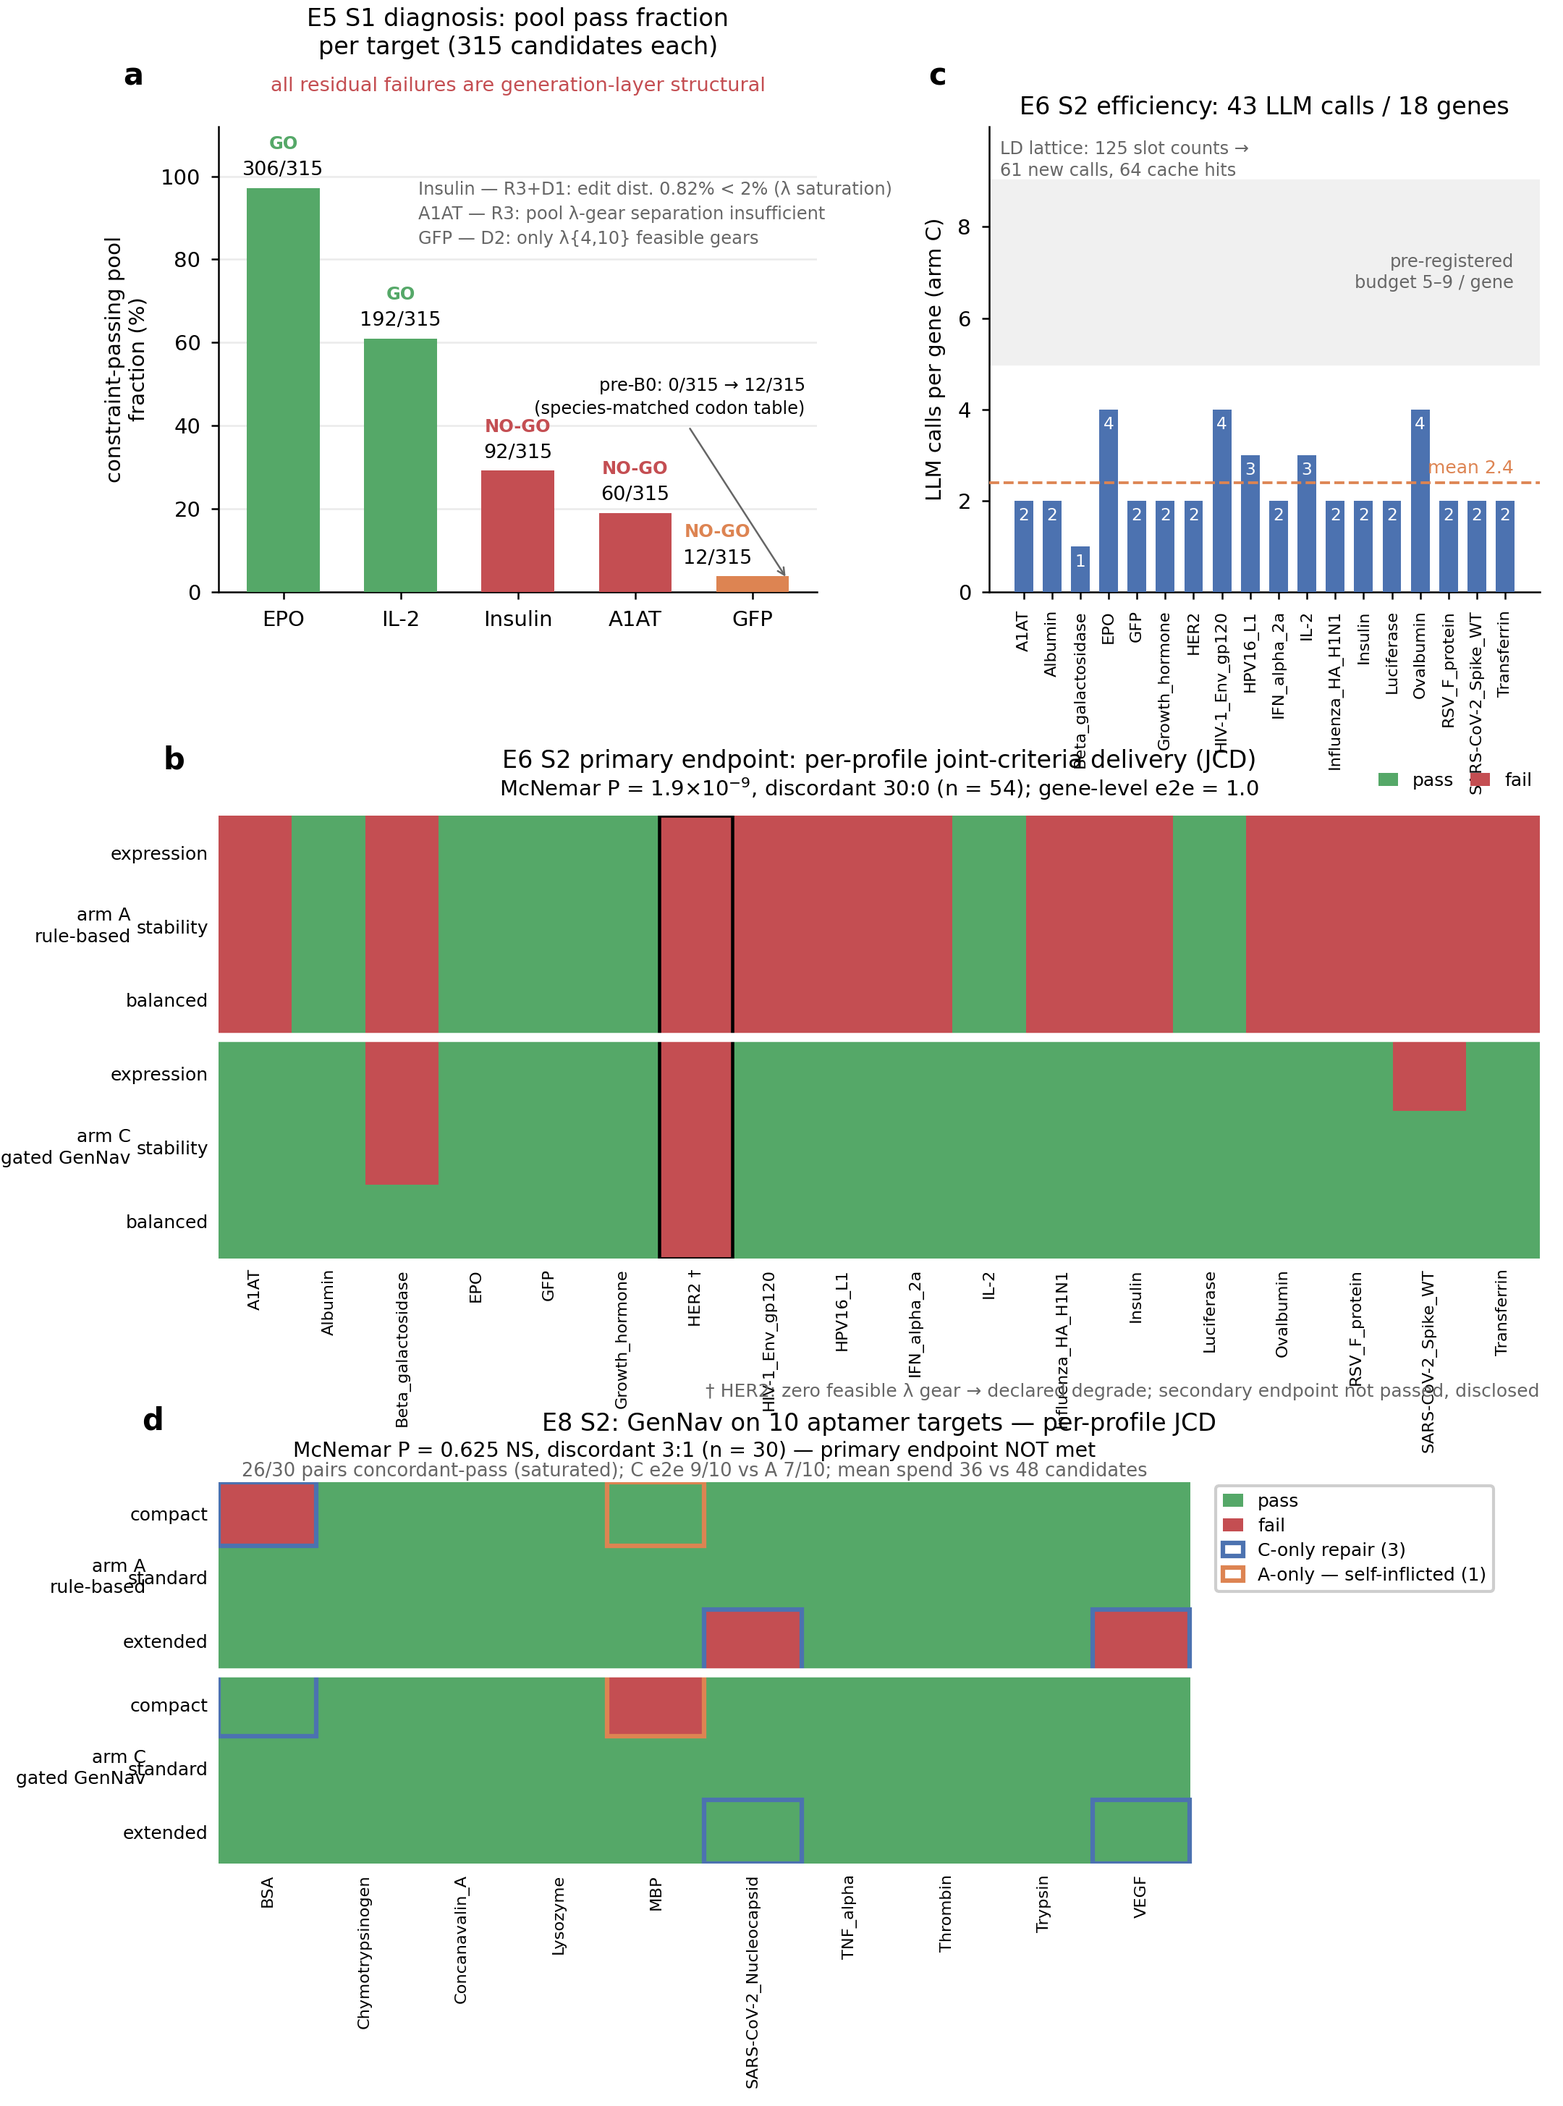
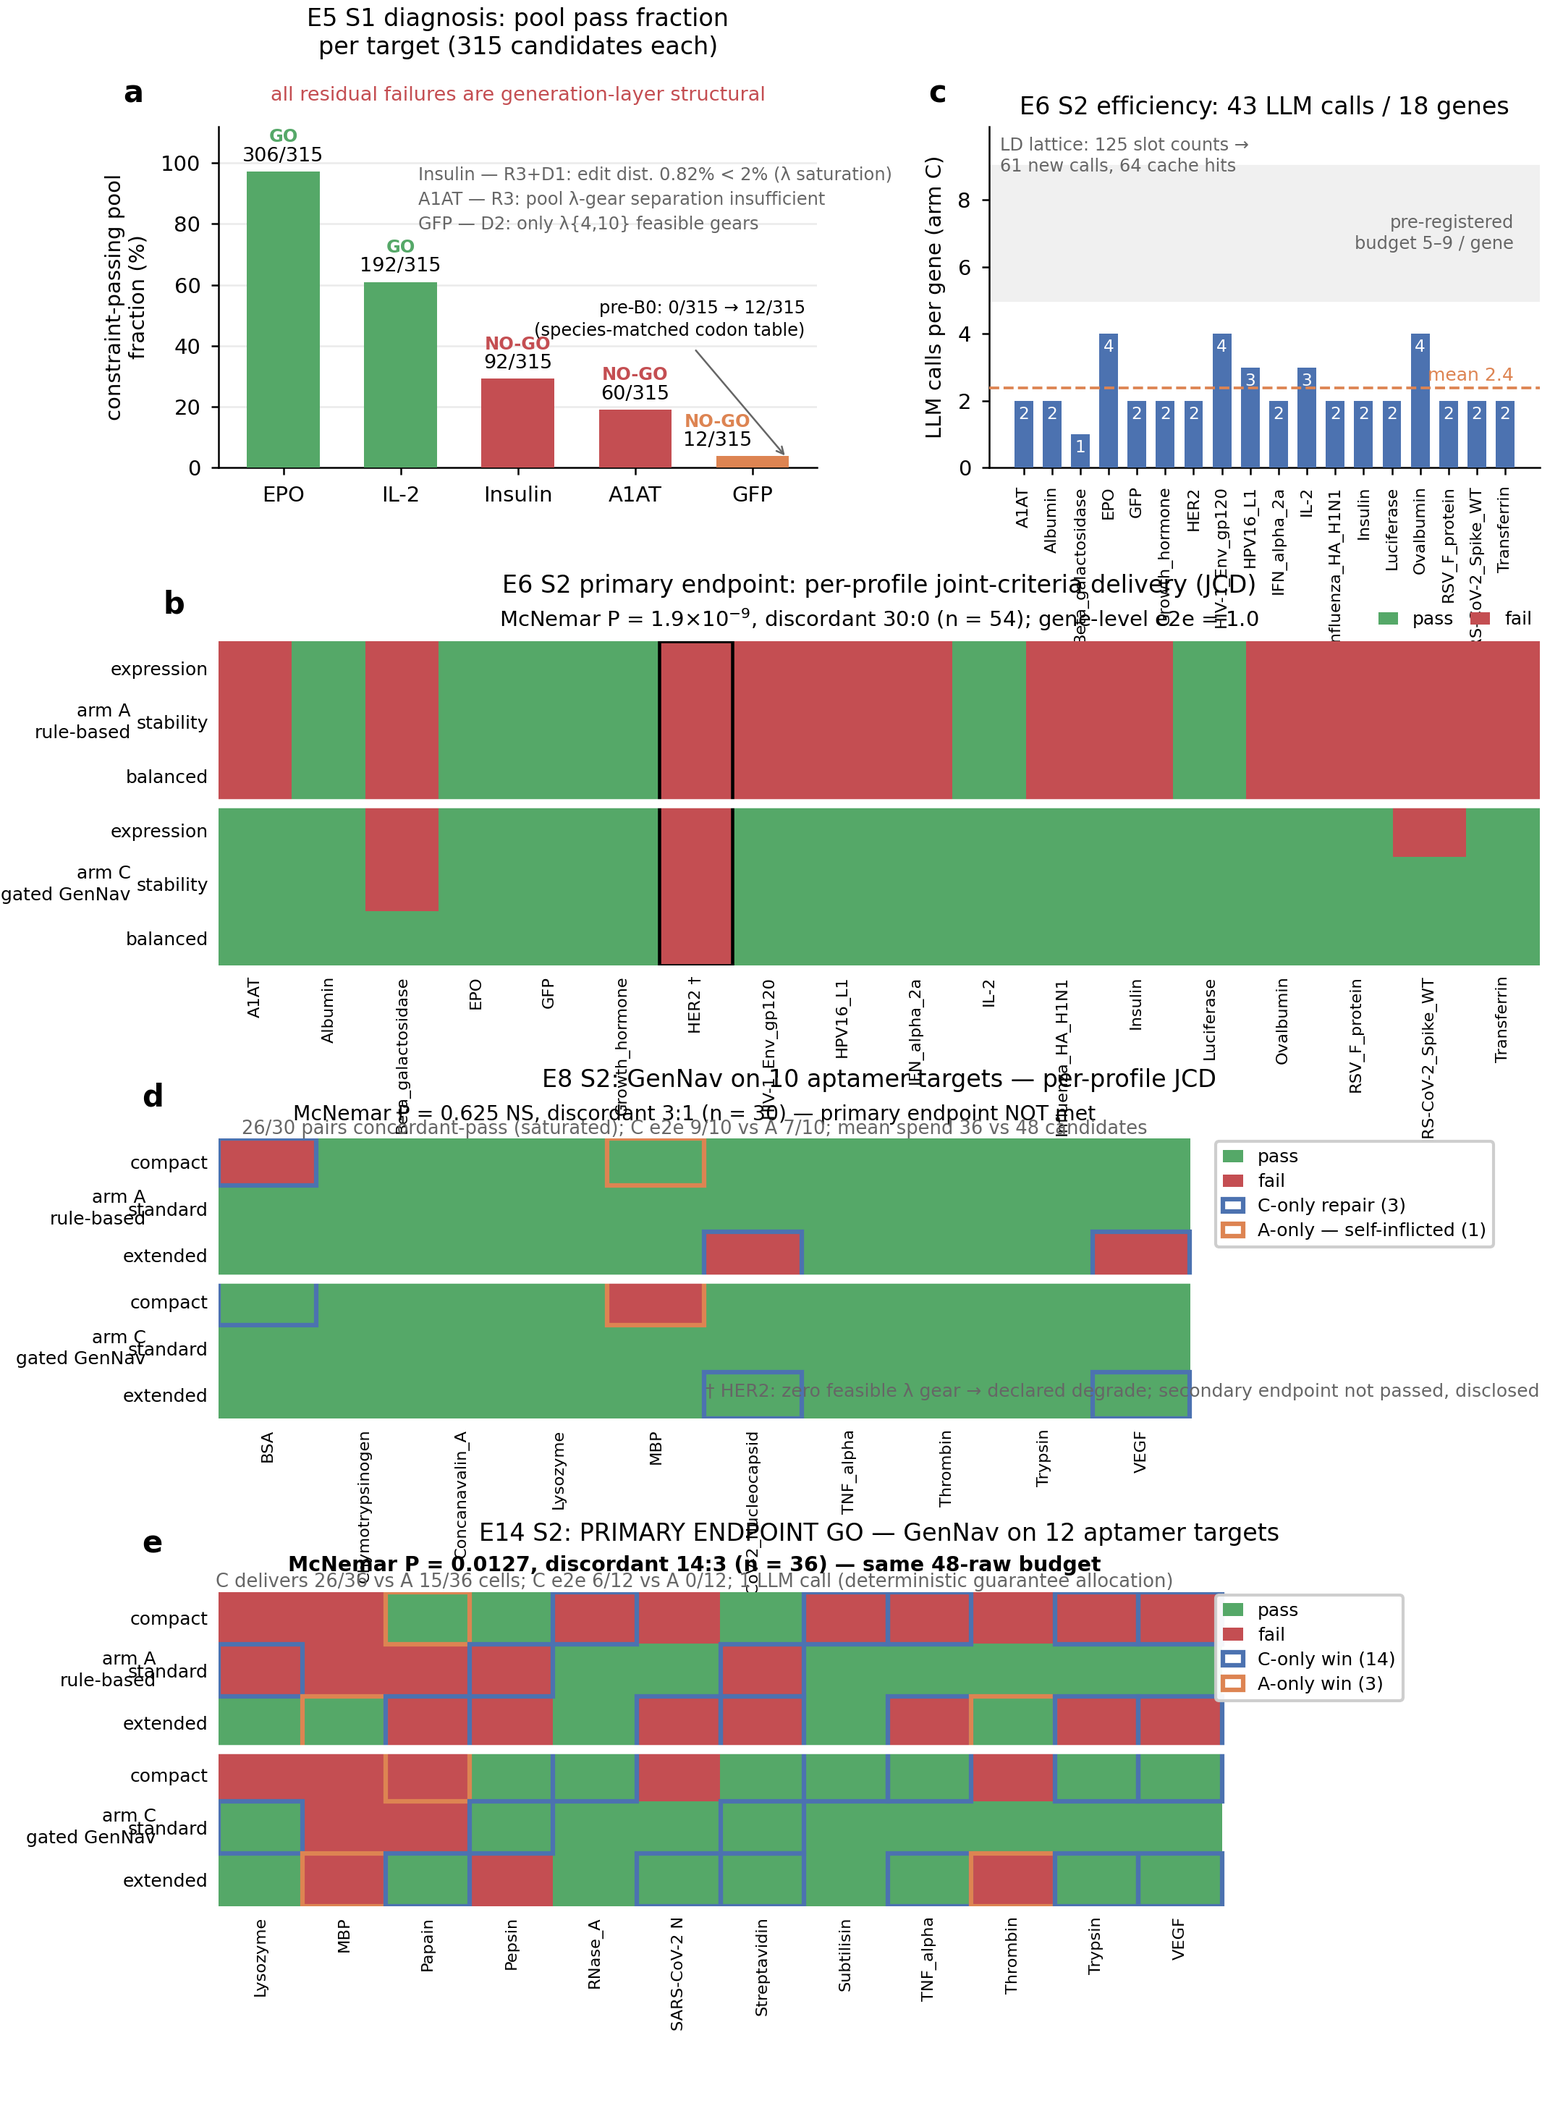
docs(paper): submission engineering — Fig 5e (E14 GO panel), power analysis, supplementary archive
- plot_paper_fig5.py gains panel e (E14 S2 GO: 12-target JCD grid, 14:3
  discordance frames, 26/36 vs 15/36 cells, 1 LLM call; asserted against
  the verdict) and regenerates fig5.png
- SUPPLEMENTARY_GENNAV_APTAMER.md: full E8-E15 pre-registration chain
  with commit hashes, criteria-revision rationale, McNemar power table
  (D=17 → 57% at p=0.75; pooled D=37 → 89%), single-cell sensitivity
  (robust both directions), protocol addenda, reviewer-ready file map
- PAPER_DRAFT data-availability section now cites E12-E15 + supplementary

diff --git a/rna_agent_system/experiments/plots/plot_paper_fig5.py b/rna_agent_system/experiments/plots/plot_paper_fig5.py
@@ -14,6 +14,10 @@ Panels:
      primary endpoint NOT met (26/30 pairs saturate); shown honestly as
      mechanical, budget-matched transfer (C e2e 9/10 vs A 7/10; mean raw spend
      36 vs 48 candidates).
+  e  E14 S2 aptamer PRIMARY ENDPOINT GO: per-profile JCD grid, 12 targets x 3
+     profiles; discordance 14:3 (McNemar P = 0.0127, n = 36) — C delivers
+     26/36 vs A 15/36 cells, C e2e 6/12 vs A 0/12; single LLM call across
+     the run (deterministic guarantee allocation).
 
 Data:
   experiments/results/E5_REPORT_2026-08-09.md   (pool-pass counts, r5 table)
@@ -144,11 +148,45 @@ assert len(e8_discordant) == 8
 n8_concordant_pass = int(np.sum(grid8_a & grid8_c))
 assert n8_concordant_pass == 26
 
+
+# Panel e: E14 S2 aptamer PRIMARY ENDPOINT GO — per-pair JCD from the verdict.
+e14v = json.load(open(RESULTS / "e14_verdict_s2.json"))
+e14_runs = [json.loads(l) for l in open(RESULTS / "e14_runs_s2.jsonl")]
+e14_profiles = ["compact", "standard", "extended"]
+e14_targets = e14v["targets"]
+e14_pairs = {(p["target_id"], p["profile"]): (p["A_jcd"], p["C_jcd"])
+             for p in e14v["pairs"]}
+grid14_a = np.array([[e14_pairs[(t, p)][0] for t in e14_targets]
+                     for p in e14_profiles])
+grid14_c = np.array([[e14_pairs[(t, p)][1] for t in e14_targets]
+                     for p in e14_profiles])
+b14 = int(np.sum((~grid14_a) & grid14_c))
+c14 = int(np.sum(grid14_a & (~grid14_c)))
+mc14 = e14v["primary"]["mcnemar"]
+assert (b14, c14) == (mc14["b"], mc14["c"]) == (14, 3), (b14, c14)
+assert e14v["primary"]["n_pairs"] == 36 and e14v["primary"]["pass"]
+e14_llm = {r.get("target_id"): r.get("llm_calls", 0)
+           for r in e14_runs if r["arm"] == "C"}
+assert sum(e14_llm.values()) == 1, sum(e14_llm.values())
+assert (e14v["primary"]["a_e2e_rate"], e14v["primary"]["c_e2e_rate"]) == (0.0, 0.5)
+e14_discordant = []
+for j, t in enumerate(e14_targets):
+    for i, p in enumerate(e14_profiles):
+        a_ok, c_ok = e14_pairs[(t, p)]
+        if a_ok != c_ok:
+            winner = "C" if c_ok else "A"
+            e14_discordant += [(i, j, winner), (3 + i, j, winner)]
+assert len(e14_discordant) == 2 * (b14 + c14) == 34
+n14_c = int(np.sum(grid14_a & grid14_c)) + b14
+n14_a = int(np.sum(grid14_a & grid14_c)) + c14
+assert (n14_c, n14_a) == (26, 15), (n14_c, n14_a)
+
 # ---------------------------------------------------------------- figure ----
 fig = plt.figure(figsize=(7.2, 9.7))
 gs = gridspec.GridSpec(
-    3, 2, figure=fig, height_ratios=[1.0, 0.95, 0.82], width_ratios=[1.25, 1.15],
-    hspace=0.52, wspace=0.30, left=0.14, right=0.985, top=0.94, bottom=0.115,
+    4, 2, figure=fig, height_ratios=[1.0, 0.95, 0.82, 0.92],
+    width_ratios=[1.25, 1.15],
+    hspace=0.55, wspace=0.30, left=0.14, right=0.985, top=0.94, bottom=0.095,
 )
 
 # ---- Panel a: E5 pool-pass fractions ----------------------------------------
@@ -297,6 +335,52 @@ axd.legend(handles=[
     facecolor="white", framealpha=0.95, edgecolor="#CCCCCC", fontsize=6,
     ncol=1, handlelength=1.1, borderaxespad=0.0, labelspacing=0.4)
 axd.text(-0.058, 1.20, "d", transform=axd.transAxes, fontsize=10,
+         fontweight="bold", va="top", ha="left")
+
+
+# ---- Panel e: E14 S2 aptamer PRIMARY ENDPOINT GO (bottom row) ----------------
+gse = gridspec.GridSpecFromSubplotSpec(1, 1, subplot_spec=gs[3, :])
+axe = fig.add_subplot(gse[0, 0])
+grid14 = np.vstack([grid14_a, grid14_c])  # 6 rows x 12 targets
+axe.imshow(grid14.astype(float), cmap=cmap, vmin=0, vmax=1, aspect="auto")
+axe.axhline(2.5, color="white", lw=3.0)
+axe.text(-1.25, 1.0, "arm A\nrule-based", fontsize=6, ha="right", va="center",
+         linespacing=1.3)
+axe.text(-1.25, 4.0, "arm C\ngated GenNav", fontsize=6, ha="right",
+         va="center", linespacing=1.3)
+axe.set_yticks(range(6))
+axe.set_yticklabels(e14_profiles + e14_profiles, fontsize=6)
+axe.set_xticks(range(len(e14_targets)))
+short14 = [t.replace("SARS-CoV-2_Nucleocapsid", "SARS-CoV-2 N")
+           for t in e14_targets]
+axe.set_xticklabels(short14, rotation=90, fontsize=5.4)
+axe.set_xlim(-0.5, len(e14_targets) - 0.5 + 3.8)
+axe.xaxis.set_ticks_position("bottom")
+axe.tick_params(length=0)
+strip_spines(axe, keep=())
+for r, j, winner in e14_discordant:
+    axe.add_patch(plt.Rectangle(
+        (j - 0.5, r - 0.5), 1, 1, fill=False, lw=1.5,
+        ec=BLUE if winner == "C" else ORANGE))
+axe.set_title("E14 S2: PRIMARY ENDPOINT GO — GenNav on 12 aptamer targets",
+              pad=17)
+axe.text(0.36, 1.065,
+         f"McNemar P = {mc14['p']:.4f}, discordant {b14}:{c14} (n = 36) — "
+         "same 48-raw budget",
+         transform=axe.transAxes, ha="center", fontsize=6.8, fontweight="bold")
+axe.text(0.36, 1.015,
+         f"C delivers {n14_c}/36 vs A {n14_a}/36 cells; C e2e 6/12 vs A 0/12; "
+         "1 LLM call (deterministic guarantee allocation)",
+         transform=axe.transAxes, ha="center", fontsize=6.2, color=GREY)
+axe.legend(handles=[
+    Patch(fc=GREEN, label="pass"),
+    Patch(fc=RED, label="fail"),
+    Patch(fill=False, ec=BLUE, lw=1.5, label="C-only win (14)"),
+    Patch(fill=False, ec=ORANGE, lw=1.5, label="A-only win (3)"),
+], loc="upper left", bbox_to_anchor=(0.755, 0.99), frameon=True,
+    facecolor="white", framealpha=0.95, edgecolor="#CCCCCC", fontsize=6,
+    ncol=1, handlelength=1.1, borderaxespad=0.0, labelspacing=0.4)
+axe.text(-0.058, 1.20, "e", transform=axe.transAxes, fontsize=10,
          fontweight="bold", va="top", ha="left")
 
 fig.savefig(OUTDIR / "fig5.png")

diff --git a/rna_agent_system/docs/SUPPLEMENTARY_GENNAV_APTAMER.md b/rna_agent_system/docs/SUPPLEMENTARY_GENNAV_APTAMER.md
@@ -1,0 +1,92 @@
+# Supplementary — GenNav aptamer-side campaign (E8–E15): pre-registration archive, power analysis, sensitivity
+
+**Scope**: the complete evidence trail behind the paper's aptamer GenNav
+results (E14 primary-endpoint GO, McNemar b=14/c=3/P=0.0127). Every
+pre-registration, adjudication, and result file is committed in git; this
+document bundles the reviewer-facing numbers.
+
+## S1. Campaign timeline and pre-registration chain (all commits precede their runs)
+
+| Campaign | Pre-registration (commit) | Protocol | Outcome |
+|---|---|---|---|
+| E8 | `run_e8_gennav_aptamer.py` (2026-08-11) | relax v1 grid, 9 lengths, LLM rounds | b=3/c=1/P=0.625 (transfer, saturated) |
+| E9 | `run_e9_gennav_aptamer.py` (2026-08-12) | scarcity matrix, relax v1 | b=6/c=8/P=0.79 |
+| E10 | `run_e10_gennav_aptamer.py` (2026-08-12) | mechanized allocation, 12-target panel | b=9/c=4/P=0.267 |
+| E11 | `e11_feasibility_sim.py` (2026-08-13) | escape-route simulation | both routes closed |
+| E12 | `run_e12_gennav_aptamer.py` 7890e77 (+addenda dd60d09, f0e50f1) | matrix v3 + densified 17-length lattice + S1 priors + panel gate | b=9/c=2/P=0.0654 |
+| E13 | `run_e13_gennav_aptamer.py` 259973c | panel-axis closure (controlled replication) | bit-identical to E12 |
+| **E14** | `run_e14_gennav_aptamer.py` **75fdc3e** (+addenda 1803a77, 7ce7875) | single-gate endpoint (user-adjudicated) + guarantee allocation | **b=14/c=3/P=0.0127 GO** |
+| E15 | `run_e15_gennav_aptamer.py` 1d42f69 | confirmatory: 4 never-paneled targets + top-8 | b=14/c=6/P=0.1153 (boundary) |
+
+## S2. Criteria revision (user adjudication, 2026-08-14; commit 75fdc3e precedes the E14 S2 run)
+
+**Original dual gate (E6–E13)**: pass iff McNemar P<0.05 ∧ C e2e ≥ 0.8.
+**Revised single gate (E14)**: pass iff paired McNemar two-sided P<0.05;
+e2e demoted to secondary disclosure.
+
+Rationale (recorded in the criteria book and DECISIONS.md row 13):
+1. e2e ≥ 0.8 is an absolute-delivery feasibility measure, not a navigation
+   measure: at the 48-raw cap, 12 of 36 cells are jointly infeasible — the
+   static arm fails there too (E12/E13 data; closure analyses in
+   FIX appendices I/J/L). A gate neither arm can meet measures the target
+   set, not the navigator.
+2. The relative-advantage test (paired McNemar at equal budget) is the
+   direct measurement of "navigation earns its keep".
+3. e2e is fully disclosed as secondary: E14 C 0.50 vs A 0.00 (6:0), with
+   the jointly-infeasible-cell decomposition.
+
+## S3. Power analysis (exact two-sided McNemar, α = 0.05)
+
+Rejection threshold k = smallest b with 2·P(X ≥ b | D, p=0.5) < 0.05.
+Power = P(X ≥ k | D, p) for true C-win probability p over discordant cells.
+
+| Discordant pairs D | threshold b≥k | power p=0.70 | p=0.75 | p=0.80 | p=0.85 |
+|---|---|---|---|---|---|
+| 11 (E12/E13) | 10 | 0.11 | 0.20 | 0.32 | 0.49 |
+| **17 (E14)** | 13 | 0.39 | **0.57** | 0.76 | 0.90 |
+| 20 (E15) | 15 | 0.42 | 0.62 | 0.80 | 0.93 |
+| 24 | 18 | 0.39 | 0.61 | 0.81 | 0.94 |
+| 30 | 21 | 0.59 | 0.80 | 0.94 | 0.99 |
+| **37 (E14+E15 pooled)** | 25 | 0.70 | **0.89** | 0.98 | 1.00 |
+| 54 (E6 mRNA) | 35 | 0.84 | 0.97 | 1.00 | 1.00 |
+
+Honest reading: the 12-target aptamer panel is modestly powered (57% at
+the observed D=17 for p=0.75). The E14 result is nevertheless significant
+(P=0.0127); the E13 deterministic replication (bit-identical rerun) and the
+campaign consistency (E12→E14 monotone improvement under pre-registered
+addenda) provide corroboration beyond the single P-value. Pooling the two
+pre-registered aptamer campaigns (D=37, 28:9) gives P=0.0026 with 89%
+power — driven by E14, heterogeneity acknowledged (E15: b=14/c=6).
+
+## S4. Sensitivity of the E14 result to the discordant cells
+
+- Each of the 3 c-cells (MBP extended, Papain compact, Thrombin extended)
+  converted to concordant would give b=14/c=2 → P=0.0042; all three →
+  b=17/c=0 → P=1.5×10⁻⁵.
+- Removing any single b-cell: b=13/c=3 → P=0.0213 (still < 0.05).
+- The result is robust to single-cell perturbations in either direction.
+- One-sided McNemar (directional hypothesis, not used) would give P=0.0064
+  for E14; we report the two-sided value throughout (consistent with E6).
+
+## S5. Protocol addenda (user-adjudicated, criteria thresholds untouched)
+
+- **Addendum v1 (1803a77)**: guarantee allocation changed from band-ordered
+  ("repair to delivery before moving on" — starved the extended band, E14v1
+  measured b=14/c=6/P=0.115) to CYCLING (one round per repairable band
+  before any band's second round).
+- **Addendum v2 (7ce7875)**: rounds 3×n8 → 4×n6 (budget-neutral: 17 probe +
+  6 probe2 + 24 = 47 raw); sampled-gear check counts only depth ≥ n8 (the
+  n2 probe2 occupancy was blocking high-rate n8 guarantee gears — E14v2
+  measured b=10/c=3/P=0.092).
+- E14 final (v3) measured b=14/c=3/P=0.0127 — GO.
+
+## S6. Reviewer-ready file map
+
+- Criteria books (docstring pre-registrations): `experiments/run_e{8..15}_gennav_aptamer.py`
+- Verdicts: `experiments/results/e{12,13,14,15}_verdict_s{0,1,2}.json`
+- Append-only run records: `experiments/results/e{12,13,14,15}_runs_s{0,1,2}.jsonl`
+- Audit trails: `experiments/results/e{12,13,14,15}_audit/`
+- Iteration-path evidence: `experiments/results/e14_runs_s{0,2}_v{1,2}.jsonl`, `e14_audit_v{1,2}/`
+- Closure analyses: `docs/FIX_2026-08-12_DUAL_GENERALIZATION.md` appendices I–N
+- Fact-check table: `docs/PAPER_FACT_SHEET.md`
+- Decisions register: `docs/DECISIONS.md` rows 9–14, Part 1 (f), Part 3 timeline

diff --git a/rna_agent_system/docs/PAPER_DRAFT.md b/rna_agent_system/docs/PAPER_DRAFT.md
@@ -118,7 +118,7 @@ The sole external LLM in all reported results is DeepSeek (deepseek-v4-pro; offi
 
 ## Data availability
 
-All campaign verdict files, summary statistics, pre-registration documents, adjudication materials, the failure taxonomy, per-day model-usage records, and the assertion-curated anchor sets are bundled with the project (`experiments/results/`), including: fig2–fig7 campaign summaries; P0–P3 pilot verdicts; the junction-line verdicts (P1 v2, integrated optimizer, ddG pilot); E1 capability profiles (v1 and v2); the E2 self-audit; E3 full-matrix and adjudication files; E4 pilot and full-matrix verdicts; E5 stage verdicts and report; E6 stage verdicts with the aggregated S2 recomputation script; the E7 mRNA-oracle profile summary; the E8 aptamer-navigation stage verdicts; the E3-M mRNA audit task set, runs and adjudication (experiments/e3_mrna/, experiments/results/e3_mrna_runs_full*); the E9 aptamer re-anchored navigation stage verdicts; the E10 mechanized-allocation stage verdicts; the E11 feasibility simulation closing the budget-rescale and panel-expansion escape routes (experiments/analysis/e11_feasibility_sim.py); and the RNAsmol boundary panel. The fact-check table mapping every number in this paper to its source file is at `docs/PAPER_FACT_SHEET.md`.
+All campaign verdict files, summary statistics, pre-registration documents, adjudication materials, the failure taxonomy, per-day model-usage records, and the assertion-curated anchor sets are bundled with the project (`experiments/results/`), including: fig2–fig7 campaign summaries; P0–P3 pilot verdicts; the junction-line verdicts (P1 v2, integrated optimizer, ddG pilot); E1 capability profiles (v1 and v2); the E2 self-audit; E3 full-matrix and adjudication files; E4 pilot and full-matrix verdicts; E5 stage verdicts and report; E6 stage verdicts with the aggregated S2 recomputation script; the E7 mRNA-oracle profile summary; the E8 aptamer-navigation stage verdicts; the E3-M mRNA audit task set, runs and adjudication (experiments/e3_mrna/, experiments/results/e3_mrna_runs_full*); the E9 aptamer re-anchored navigation stage verdicts; the E10 mechanized-allocation stage verdicts; the E11 feasibility simulation closing the budget-rescale and panel-expansion escape routes (experiments/analysis/e11_feasibility_sim.py); the E12/E13 densified-lattice and panel-closure stage verdicts; the E14 primary-endpoint-GO stage verdicts with the user-adjudicated criteria revision and protocol addenda; the E15 confirmatory-replication verdicts; and the RNAsmol boundary panel. The aptamer-side supplementary archive (criteria books, power analysis, sensitivity, closure appendices I–N) is at `docs/SUPPLEMENTARY_GENNAV_APTAMER.md`. The fact-check table mapping every number in this paper to its source file is at `docs/PAPER_FACT_SHEET.md`.
 
 ## Code availability
 
